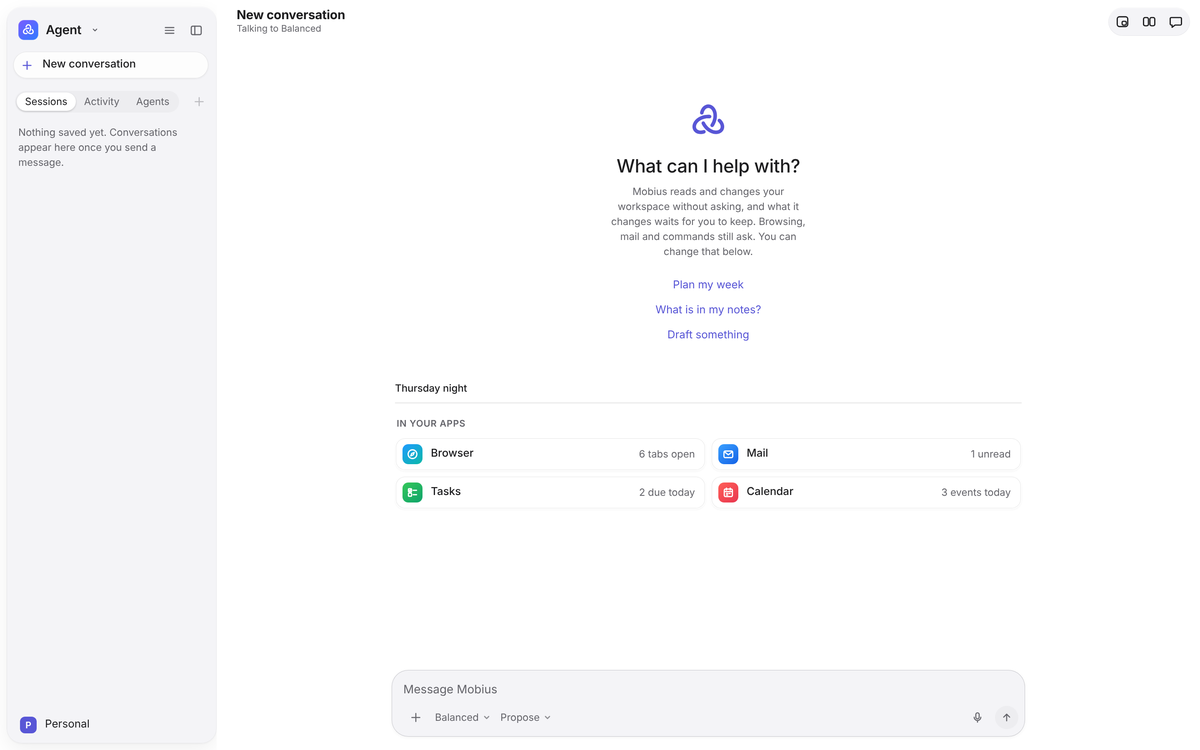
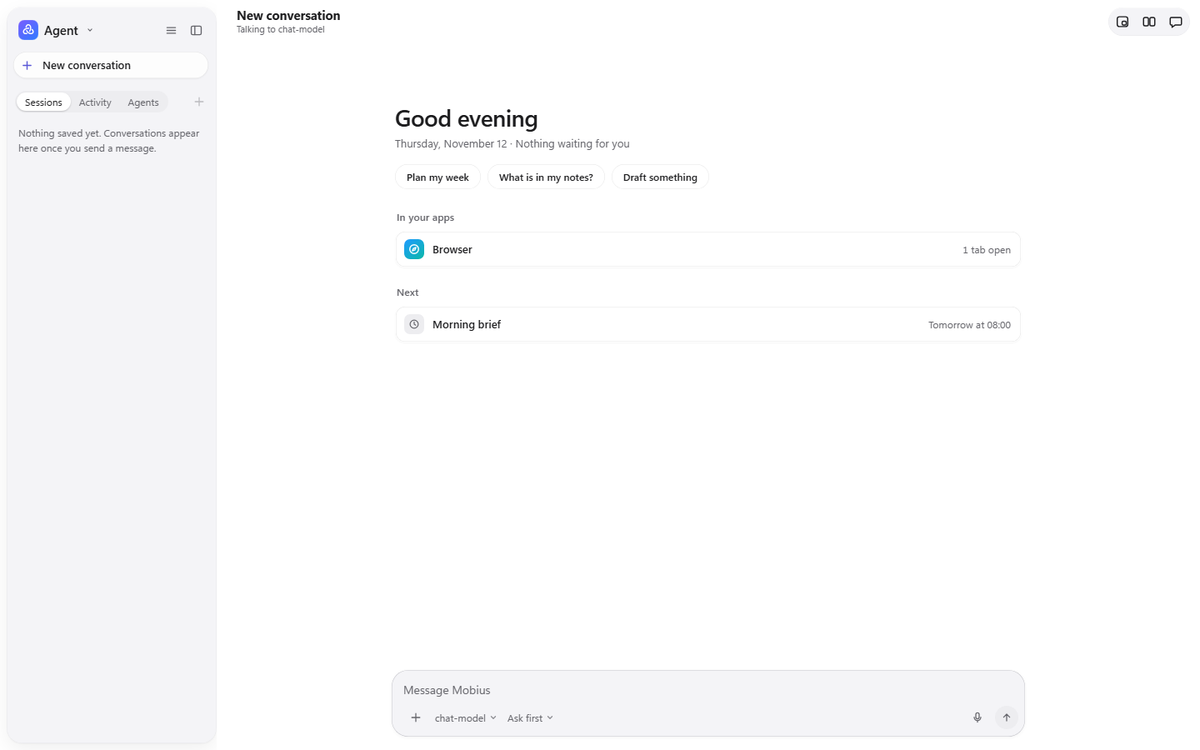
Home: dates from the shared formatter; README Agent picture shows the desk
The desk's date line, Recent ago labels and Next times use dates.ts, so they follow the
computer's regional format and clock like every other app. The README's Agent picture is
the new desk from the CI screens.

Claude-Session: https://claude.ai/code/session_01VRGwoAJy6AGGLnNWeiKofu

diff --git a/apps/desktop/src/desk-view.test.ts b/apps/desktop/src/desk-view.test.ts
@@ -1,4 +1,5 @@
-import { describe, expect, it } from 'vitest';
+import { afterEach, beforeEach, describe, expect, it } from 'vitest';
+import { setLocaleForTests } from './dates';
 import { agoLabel, deskGreeting, deskTitle, nextRun, recent, upcoming, whenLabel } from './desk-view';
 
 // Monday 9 November 2026, 19:30.
@@ -6,6 +7,9 @@ const now = new Date(2026, 10, 9, 19, 30);
 const schedule = (time: string, days: number[], enabled = true) => ({ id: time, title: `At ${time}`, prompt: 'p', time, days, enabled, lastRunMs: null });
 
 describe('desk', () => {
+  beforeEach(() => setLocaleForTests('en-GB'));
+  afterEach(() => setLocaleForTests(null));
+
   it('greets for the time of day', () => {
     expect(deskGreeting(now)).toBe('Good evening');
     expect(deskGreeting(new Date(2026, 10, 10, 8))).toBe('Good morning');
@@ -14,10 +18,11 @@ describe('desk', () => {
   });
 
   it('the line under it names the date, then only the counts that are not zero', () => {
-    expect(deskTitle(now, { waiting: 0, working: 0, changed: 0 }, 'en-GB')).toEqual(['Monday 9 November']);
-    expect(deskTitle(now, { waiting: 2, working: 1, changed: 1 }, 'en-GB')).toEqual(['Monday 9 November', '2 waiting for you', 'Mobius is working', '1 app changed']);
-    expect(deskTitle(new Date(2026, 10, 10, 8), { waiting: 0, working: 3, changed: 2 }, 'en-GB')).toEqual(['Tuesday 10 November', 'Mobius is working on 3', '2 apps changed']);
-    expect(deskTitle(now, { waiting: 0, working: 0, changed: 0 }, 'en-US')).toEqual(['Monday, November 9']);
+    expect(deskTitle(now, { waiting: 0, working: 0, changed: 0 })).toEqual(['Monday 9 November']);
+    expect(deskTitle(now, { waiting: 2, working: 1, changed: 1 })).toEqual(['Monday 9 November', '2 waiting for you', 'Mobius is working', '1 app changed']);
+    expect(deskTitle(new Date(2026, 10, 10, 8), { waiting: 0, working: 3, changed: 2 })).toEqual(['Tuesday 10 November', 'Mobius is working on 3', '2 apps changed']);
+    setLocaleForTests('en-US');
+    expect(deskTitle(now, { waiting: 0, working: 0, changed: 0 })).toEqual(['Monday, November 9']);
   });
 
   it('says when a conversation was last active, in words', () => {
@@ -26,10 +31,11 @@ describe('desk', () => {
     expect(agoLabel(ago(25), now)).toBe('25 min ago');
     expect(agoLabel(ago(185), now)).toBe('3 h ago');
     expect(agoLabel(new Date(2026, 10, 8, 23, 0).getTime(), now)).toBe('Yesterday');
-    expect(agoLabel(new Date(2026, 10, 5, 9, 0).getTime(), now, 'en-GB')).toBe('Thursday');
-    expect(agoLabel(new Date(2026, 10, 2, 9, 0).getTime(), now, 'en-GB')).toBe('2 Nov');
+    expect(agoLabel(new Date(2026, 10, 5, 9, 0).getTime(), now)).toBe('Thursday');
+    expect(agoLabel(new Date(2026, 10, 2, 9, 0).getTime(), now)).toBe('2 Nov');
     // The system's locale decides the order, as in Mail.
-    expect(agoLabel(new Date(2026, 10, 2, 9, 0).getTime(), now, 'en-US')).toBe('Nov 2');
+    setLocaleForTests('en-US');
+    expect(agoLabel(new Date(2026, 10, 2, 9, 0).getTime(), now)).toBe('Nov 2');
   });
 
   it('lists conversations to pick up again, most recent first, without empty or skipped ones', () => {
@@ -53,8 +59,11 @@ describe('desk', () => {
 
   it('says when in words: today, tomorrow, or the weekday', () => {
     expect(whenLabel(new Date(2026, 10, 9, 20, 0), now)).toBe('Today at 20:00');
-    expect(whenLabel(new Date(2026, 10, 10, 8, 5), now)).toBe('Tomorrow at 08:05');
-    expect(whenLabel(new Date(2026, 10, 12, 8, 0), now)).toBe('Thursday at 08:00');
+    expect(whenLabel(new Date(2026, 10, 10, 8, 5), now)).toBe('Tomorrow at 8:05');
+    expect(whenLabel(new Date(2026, 10, 12, 8, 0), now)).toBe('Thursday at 8:00');
+    // A 12-hour clock where the computer keeps one.
+    setLocaleForTests('en-US');
+    expect(whenLabel(new Date(2026, 10, 10, 8, 5), now)).toBe('Tomorrow at 8:05 AM');
   });
 
   it('lists what runs next, soonest first, leaving out what is off', () => {

diff --git a/apps/desktop/src/desk-view.ts b/apps/desktop/src/desk-view.ts
@@ -1,4 +1,5 @@
 import type { ScheduleInfo } from '@mobius/shared';
+import { dayLabel, daysFrom, longDateLabel, nearDayLabel, timeLabel, weekdayLabel } from './dates';
 
 /** The words for the time of day the desk is read at. */
 export const partOfDay = (hour: number): string => (hour < 5 ? 'night' : hour < 12 ? 'morning' : hour < 18 ? 'afternoon' : 'evening');
@@ -9,28 +10,26 @@ export const deskGreeting = (now: Date): string => {
   return part === 'morning' ? 'Good morning' : part === 'afternoon' ? 'Good afternoon' : 'Good evening';
 };
 
-/** The line under the greeting: the date in the system's locale, then only the counts that are not zero. */
-export function deskTitle(now: Date, counts: { waiting: number; working: number; changed: number }, locale?: string): string[] {
-  const day = now.toLocaleDateString(locale, { weekday: 'long', day: 'numeric', month: 'long' });
+/** The line under the greeting: the date as the computer writes it, then only the counts that are not zero. */
+export function deskTitle(now: Date, counts: { waiting: number; working: number; changed: number }): string[] {
   return [
-    day,
+    longDateLabel(now, { year: false }),
     counts.waiting > 0 ? `${counts.waiting} waiting for you` : '',
     counts.working > 0 ? (counts.working === 1 ? 'Mobius is working' : `Mobius is working on ${counts.working}`) : '',
     counts.changed > 0 ? `${counts.changed} ${counts.changed === 1 ? 'app' : 'apps'} changed` : '',
   ].filter(Boolean);
 }
 
-/** When a conversation was last active, in words: "Just now", "25 min ago", "3 h ago", "Yesterday", "Monday", "2 Nov". */
-export function agoLabel(ms: number, now: Date, locale?: string): string {
+/** When a conversation was last active, in words: "Just now", "25 min ago", "3 h ago", "Yesterday", "Monday", "2 Nov" (in the system's order). */
+export function agoLabel(ms: number, now: Date): string {
   const minutes = Math.floor((now.getTime() - ms) / 60_000);
   if (minutes < 1) return 'Just now';
   if (minutes < 60) return `${minutes} min ago`;
-  const at = new Date(ms);
-  const days = Math.round((new Date(now.getFullYear(), now.getMonth(), now.getDate()).getTime() - new Date(at.getFullYear(), at.getMonth(), at.getDate()).getTime()) / 86_400_000);
+  const days = -daysFrom(ms, now);
   if (days <= 0) return `${Math.floor(minutes / 60)} h ago`;
   if (days === 1) return 'Yesterday';
-  if (days < 7) return at.toLocaleDateString(locale, { weekday: 'long' });
-  return at.toLocaleDateString(locale, { day: 'numeric', month: 'short' });
+  if (days < 7) return weekdayLabel(ms, 'long');
+  return dayLabel(ms, { now });
 }
 
 /** The conversations to pick up again: ones with messages, most recent first, at most `limit`, leaving out `skip`. */
@@ -50,12 +49,10 @@ export function nextRun(schedule: Pick<ScheduleInfo, 'enabled' | 'days' | 'time'
   return null;
 }
 
-/** "Today at 08:00", "Tomorrow at 08:00", "Thursday at 08:00". */
+/** "Today at 08:00", "Tomorrow at 08:00", "Thursday at 08:00", with the time as the computer keeps its clock. */
 export function whenLabel(at: Date, now: Date): string {
-  const days = Math.round((new Date(at.getFullYear(), at.getMonth(), at.getDate()).getTime() - new Date(now.getFullYear(), now.getMonth(), now.getDate()).getTime()) / 86_400_000);
-  const time = `${String(at.getHours()).padStart(2, '0')}:${String(at.getMinutes()).padStart(2, '0')}`;
-  const day = days === 0 ? 'Today' : days === 1 ? 'Tomorrow' : at.toLocaleDateString('en-GB', { weekday: 'long' });
-  return `${day} at ${time}`;
+  const near = nearDayLabel(at, now);
+  return `${near === 'Today' || near === 'Tomorrow' ? near : weekdayLabel(at, 'long')} at ${timeLabel(at)}`;
 }
 
 /** The schedules that run next, soonest first, at most `limit`. */

diff --git a/apps/desktop/e2e/surface.spec.ts b/apps/desktop/e2e/surface.spec.ts
@@ -75,7 +75,7 @@ test('the desk is the Agent app’s home: what waits is allowed in place, and wh
   await expect(desk.getByRole('group', { name: 'Recent' })).toHaveCount(0);
   const now = desk.getByRole('group', { name: 'Now' });
   await expect(now.getByRole('listitem')).toContainText('Wants to');
-  await expect(desk.getByRole('group', { name: 'Next' }).getByRole('button', { name: /Morning brief.*at 08:00/ })).toBeVisible();
+  await expect(desk.getByRole('group', { name: 'Next' }).getByRole('button', { name: /Morning brief.*at 0?8:00/ })).toBeVisible();
   await now.getByRole('button', { name: /^Allow .* once$/ }).click();
   await expect(desk.getByRole('group', { name: 'Now' })).toHaveCount(0);
   await expect.poll(() => fs.existsSync(path.join(userData, 'workspace', 'notes', 'Work', 'Ideas.md'))).toBe(true);
